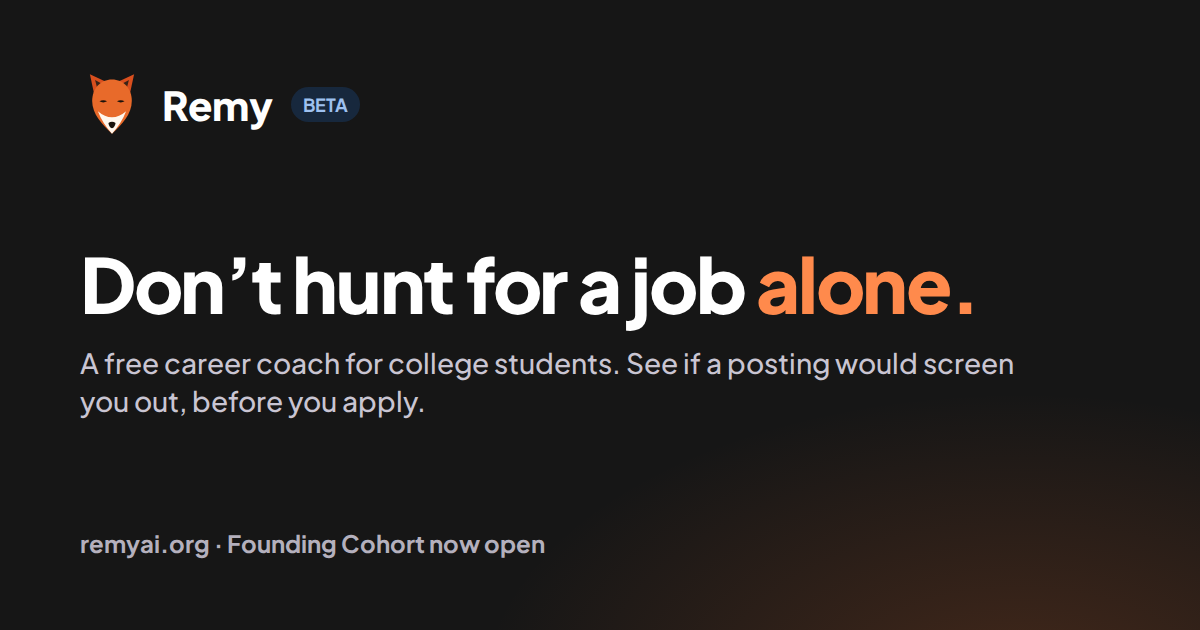
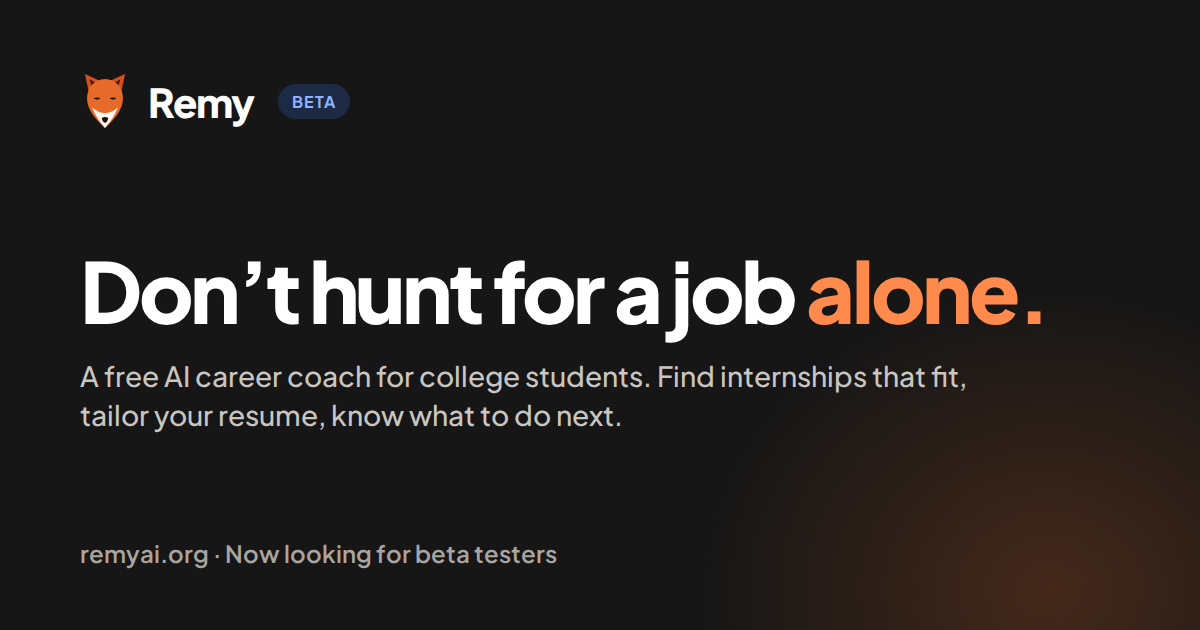
Say "beta testers" instead of "Founding Cohort" everywhere students look
Homepage buttons and fine print, sign-in badge/subtitle/messages, the
turned-away message, About and Privacy wording, the "You're in" welcome
email (subject, badge, no "built by TCU students" footer), and the link
preview (og:description + og.png). Owners' dashboard, code comments and
the beta terms text are unchanged (changing terms would make every
student re-agree). What's new entry added.

Claude-Session: https://claude.ai/code/session_0147vw1L5yEmaaesKTGWNT6C

Changed region(s): [[0.0617, 0.3921, 0.8633, 0.6937], [0.0617, 0.8444, 0.4625, 0.9048], [0.0617, 0.1206, 0.3083, 0.2111]]

diff --git a/client/src/pages/Welcome.tsx b/client/src/pages/Welcome.tsx
@@ -43,8 +43,8 @@ export default function Welcome() {
   return path === "/signin" || betaBlocked ? <SignIn /> : <Landing />;
 }
 
-/** Where to apply for the Founding Cohort: the team's form, or Remy's inbox when the form isn't set yet. */
-const applyHref = (formUrl?: string) => formUrl || "mailto:remy.careercoach@gmail.com?subject=Remy%20Founding%20Cohort";
+/** Where to apply to be a beta tester: the team's form, or Remy's inbox when the form isn't set yet. */
+const applyHref = (formUrl?: string) => formUrl || "mailto:remy.careercoach@gmail.com?subject=Remy%20beta%20tester";
 
 /** Invite-only beta: who can sign in, and why someone was turned away. */
 function BetaNote({ onOther }: { onOther: () => void }) {
@@ -55,14 +55,14 @@ function BetaNote({ onOther }: { onOther: () => void }) {
     <div className="notice notice-warn stack-sm fade-up" role="alert" data-testid="beta-blocked">
       <span className="small">{betaBlocked}</span>
       <div className="row" style={{ gap: 8 }}>
-        <a className="btn btn-primary btn-sm" href={href} target="_blank" rel="noreferrer" data-testid="link-beta-apply">Apply for the Founding Cohort</a>
+        <a className="btn btn-primary btn-sm" href={href} target="_blank" rel="noreferrer" data-testid="link-beta-apply">Apply to be a beta tester</a>
         <button type="button" className="btn btn-ghost btn-sm" onClick={() => { clearBeta(); onOther(); go("/signin"); }} data-testid="button-beta-other">Use a different email</button>
       </div>
     </div>
   );
   return (
     <p className="small muted" style={{ textAlign: "center" }} data-testid="beta-note">
-      Remy is invite-only during the beta. Sign in with the email you applied with. Not in yet? <a className="auth-link" href={href} target="_blank" rel="noreferrer">Apply for the Founding Cohort</a>
+      Remy is invite-only during the beta. Sign in with the email you applied with. Not in yet? <a className="auth-link" href={href} target="_blank" rel="noreferrer">Apply to be a beta tester</a>
     </p>
   );
 }
@@ -121,7 +121,7 @@ function SignIn() {
     <div className="landing-screen auth-stage">
       <div className="lp-beam" aria-hidden><span className="lp-beam-floor" /></div>
       <aside className="auth-side" aria-label="What happens next">
-        <span className="lp-award">{config?.beta?.on ? "Founding Cohort · invite-only beta" : "Free while Remy is in beta"}</span>
+        <span className="lp-award">{config?.beta?.on ? "Invite-only beta · looking for testers" : "Free while Remy is in beta"}</span>
         <p className="auth-side-h" aria-hidden>Your career coach is one step away.</p>
         <ol className="auth-steps">
           <li><b>Sign in</b><span>{config?.beta?.on ? "With the email you applied with." : "New here? This creates your account."}</span></li>
@@ -134,7 +134,7 @@ function SignIn() {
         <div className="landing">
           <Remy size={72} mood="wave" />
           <h1 className="motto">Sign in to Remy</h1>
-          <p className="sub">{config?.beta?.on ? "Free for Founding Cohort members during the beta. Setup takes about 5 minutes." : "Free for students while Remy is in beta. New here? Signing in creates your account; setup takes about 5 minutes."}</p>
+          <p className="sub">{config?.beta?.on ? "Free for beta testers. Setup takes about 5 minutes." : "Free for students while Remy is in beta. New here? Signing in creates your account; setup takes about 5 minutes."}</p>
         </div>
         <BetaNote onOther={() => { setSent(""); setEmail(""); setCode(""); }} />
         <div className="sso-list">
@@ -157,7 +157,7 @@ function SignIn() {
             sent && codes ? (
               <form className="stack-sm fade-up" onSubmit={(e) => { e.preventDefault(); verify(); }} data-testid="email-code-form">
                 <span className="small">{config?.beta?.on
-                  ? <>If <strong>{sent}</strong> is in Remy's Founding Cohort, a 6-digit code is on its way (it expires in 10 minutes). Nothing after a few minutes? Check spam, then make sure it's the email you applied with, or <a className="auth-link" href={applyHref(config.beta.formUrl)} target="_blank" rel="noreferrer">apply here</a>.</>
+                  ? <>If <strong>{sent}</strong> is on Remy's beta tester list, a 6-digit code is on its way (it expires in 10 minutes). Nothing after a few minutes? Check spam, then make sure it's the email you applied with, or <a className="auth-link" href={applyHref(config.beta.formUrl)} target="_blank" rel="noreferrer">apply here</a>.</>
                   : <>We emailed a 6-digit code to <strong>{sent}</strong>. It works on any device and expires in 10 minutes. Not there? Check spam or Promotions.</>}</span>
                 <div className="row">
                   <input className="input" style={{ flex: 1, minWidth: 140, letterSpacing: 4 }} inputMode="numeric" autoComplete="one-time-code" maxLength={6} autoFocus value={code} onChange={(e) => setCode(e.target.value.replace(/\D/g, ""))} placeholder="123456" aria-label="6-digit code" data-testid="input-email-code" />
@@ -191,7 +191,7 @@ function Landing() {
   const inside = !!(me && ws?.started);
   const beta = !!config?.beta?.on && !inside;
   const start = inside ? "/" : beta ? applyHref(config?.beta?.formUrl) : "/signin";
-  const startLabel = inside ? "Open my Remy" : beta ? "Apply for the Founding Cohort" : "Create your free account";
+  const startLabel = inside ? "Open my Remy" : beta ? "Apply to be a beta tester" : "Create your free account";
   const tour = useRef<HTMLElement>(null);
   const page = useRef<HTMLDivElement>(null);
   const [scrolled, setScrolled] = useState(false);
@@ -236,7 +236,7 @@ function Landing() {
             <a className="btn btn-lg lp-glow-btn" href={start} {...(beta ? { target: "_blank", rel: "noreferrer" } : {})} data-testid="button-lp-start">{startLabel}</a>
             <button className="btn btn-lg lp-ghost-btn" onClick={toTour}>See what you get</button>
           </div>
-          <p className="xs lp-fine">{beta ? "Invite-only beta · small cohorts, and the founders talk to every member · already accepted? Sign in above" : "Free beta · every major and every year, freshmen included"}</p>
+          <p className="xs lp-fine">{beta ? "Invite-only beta · the founders read every tester's feedback · already accepted? Sign in above" : "Free beta · every major and every year, freshmen included"}</p>
         </div>
         <HeroExample />
       </section>
@@ -323,7 +323,7 @@ function Landing() {
         <div className="lp-cta-in rv">
         <Remy size={56} mood="wave" />
         <h2>Ready when you are.</h2>
-        <p>{beta ? "Remy is invite-only while it's in beta: apply, and the team takes a small group each cohort. Free, no credit card." : "Free while Remy is in beta. No credit card. About 5 minutes to set up."}</p>
+        <p>{beta ? "Remy is invite-only while it's in beta: apply to be a tester and the team lets people in a group at a time. Free, no credit card." : "Free while Remy is in beta. No credit card. About 5 minutes to set up."}</p>
         <a className="btn btn-primary btn-lg" href={start} {...(beta ? { target: "_blank", rel: "noreferrer" } : {})}>{startLabel}</a>
         </div>
       </section>

diff --git a/client/src/pages/Info.tsx b/client/src/pages/Info.tsx
@@ -39,7 +39,7 @@ const TEAM: { name: string; role: string; photo: string }[] = [
 
 export function About() {
   return (
-    <Page title="About Remy" lead="Remy is a career coach for college students: it finds real openings that fit you and helps you apply honestly. During the beta it's invite-only: apply for the Founding Cohort on the homepage.">
+    <Page title="About Remy" lead="Remy is a career coach for college students: it finds real openings that fit you and helps you apply honestly. During the beta it's invite-only: apply to be a beta tester on the homepage.">
       <Section title="Why we built it">
         <p>Most students, freshmen especially, don't know where to start: what to put on a resume, which openings fit, or who to talk to. Remy walks you through it, from your first resume to your first offer.</p>
       </Section>
@@ -87,7 +87,7 @@ export function Policies() {
           <li><b>From signing in:</b> your name, email address and profile photo.</li>
           <li><b>What you give Remy:</b> your resume (the file and its text), a LinkedIn profile PDF if you upload one, your answers in setup and the resume builder, your preferences, saved openings, applications, tracker, calendar items, contacts you add, email drafts and chat messages.</li>
           <li><b>Your school email</b>, if you verify it (for example name@tcu.edu), so Remy knows you're a student there.</li>
-          <li><b>Your Founding Cohort application</b>, if you apply with our Google Form: your name, school, the email you'll sign in with, major, class year, what you're looking for, where you're stuck, the tools you use, whether you'll give weekly feedback and how you heard about Remy. The team uses it to choose each cohort. Google Forms' own privacy policy applies to the form itself.</li>
+          <li><b>Your beta tester application</b>, if you apply with our Google Form: your name, school, the email you'll sign in with, major, class year, what you're looking for, where you're stuck, the tools you use, whether you'll give weekly feedback and how you heard about Remy. The team uses it to choose who joins the beta. Google Forms' own privacy policy applies to the form itself.</li>
           <li><b>Your ratings and feedback:</b> “More like this” / “Not for me” on openings, one-tap 👍 / 👎, anything you send with Send feedback, and your answers to Remy's occasional questions and weekly check-in (Remy's AI may ask one follow-up; only the question and your answer are sent to it).</li>
           <li><b>Automatic problem reports:</b> when something breaks for you (a page error, or a request that fails or is very slow), your browser tells Remy which page and what failed, linked to your account so we can fix it. Remy also counts which pages are opened and when a button is clicked over and over (a sign it's broken), without your name. Remy never records your screen or what you type.</li>
           <li><b>A sign-in cookie</b> that keeps you signed in. Remy uses your network address briefly to stop abuse (like too many requests at once) and doesn't store it.</li>
@@ -104,14 +104,14 @@ export function Policies() {
       <Section title="How your information is used">
         <p>Only to run Remy for you: building your profile, finding openings that fit, tailoring applications, drafting emails, and planning your next steps.</p>
         <p>Some of this uses AI. When it does, Remy sends only the text that task needs (for example, your resume and a job posting) to an AI provider (currently Google's Gemini models, through OpenRouter), and those providers' own privacy policies apply. Remy checks what the AI writes against your own words before showing it to you.</p>
-        <p>Remy emails you 6-digit sign-in codes and, unless you turn them off in Account → Appearance & alerts, deadline reminders and a weekly digest, from remy.careercoach@gmail.com. If you're accepted into the Founding Cohort, the team sends you a welcome email with how to sign in.</p>
+        <p>Remy emails you 6-digit sign-in codes and, unless you turn them off in Account → Appearance & alerts, deadline reminders and a weekly digest, from remy.careercoach@gmail.com. If you're accepted as a beta tester, the team sends you a welcome email with how to sign in.</p>
         <p>The team's dashboard shows counts across students (for example, how many applications got an answer, or how many students opened a page), never what you wrote. We may keep combined statistics that can't identify anyone to improve Remy.</p>
       </Section>
       <Section title="Where it's stored">
         <p>Your information is stored in a Supabase database and served from Render, both in the United States. Sign-in is handled by Supabase (with Google or LinkedIn), Google, or Remy's own emailed 6-digit code. Public job postings Remy finds are kept in one shared list with no student information. If you connect Google Calendar, Remy keeps an encrypted Google access key so it can update and delete its “Remy” calendar; disconnecting deletes the calendar and the key.</p>
       </Section>
       <Section title="Deleting your information">
-        <p>Go to <b>Account → Account & data → Delete everything</b>. Your resume, files, profile, applications, calendar, contacts, chat, ratings, feedback and problem reports, verified school email, Founding Cohort application, sign-in record and account are deleted immediately, the “Remy” calendar is deleted from your Google Calendar if you connected it, and you're signed out. Remy keeps nothing that identifies you. Combined statistics, if any, can't be traced back to you.</p>
+        <p>Go to <b>Account → Account & data → Delete everything</b>. Your resume, files, profile, applications, calendar, contacts, chat, ratings, feedback and problem reports, verified school email, beta tester application, sign-in record and account are deleted immediately, the “Remy” calendar is deleted from your Google Calendar if you connected it, and you're signed out. Remy keeps nothing that identifies you. Combined statistics, if any, can't be traced back to you.</p>
         <p>You can also <b>download all your data</b> from the same page at any time. Guest (demo) accounts are deleted automatically after 30 days without use. Applications the team declines are deleted after their cohort closes. Copies in our hosting providers' routine backups expire on their own schedule.</p>
       </Section>
 

diff --git a/shared/acceptEmail.ts b/shared/acceptEmail.ts
@@ -1,13 +1,13 @@
-// The "You're in" email an owner sends when accepting a Founding Cohort applicant (Admin → Beta list → Accept).
+// The "You're in" email an owner sends when accepting a beta tester applicant (Admin → Beta list → Accept).
 // The owner sees this draft, can edit it, and sees the same HTML preview the student gets.
 
 export function acceptDraft(o: { name: string; email: string; cohort: string }) {
   const first = (o.name || "").trim().split(/\s+/)[0] || "there";
   return {
-    subject: "You're in: welcome to Remy's Founding Cohort 🦊",
+    subject: "You're in: welcome to the Remy beta 🦊",
     message: [
       `Hi ${first},`,
-      `You're one of the first students in Remy's Founding Cohort${o.cohort ? ` (${o.cohort})` : ""}. Here's how to get in:`,
+      `You're one of Remy's first beta testers${o.cohort ? ` (${o.cohort})` : ""}. Here's how to get in:`,
       `1. Go to remyai.org and click Sign in.\n2. Click "Continue with Email" and type ${o.email}. It has to be this exact address: it's the one we let in.\n3. Type the 6-digit code Remy emails you (check spam or Promotions if you don't see it).\n4. Setup takes about 5 minutes: add your resume and tell Remy what you're working toward.`,
       `What we ask in return: use Remy about once a week, answer one 2-minute check-in each week, and tell us anything that's confusing or wrong. Just reply to this email.`,
       `Thanks for helping build this,\nThe Remy team`,
@@ -26,7 +26,7 @@ export function acceptHtml(message: string, host: string) {
 <table role="presentation" width="100%" cellpadding="0" cellspacing="0" style="max-width:560px;background:#ffffff;border-radius:16px;overflow:hidden;font-family:-apple-system,Segoe UI,Helvetica,Arial,sans-serif">
 <tr><td style="background:#0e0d12;padding:26px 28px">
 <span style="font-size:24px;font-weight:800;color:#ffffff;letter-spacing:-.3px">🦊 Remy</span>
-<span style="display:inline-block;margin-left:8px;padding:3px 9px;border-radius:999px;background:#e86a2a;color:#fff;font-size:11px;font-weight:700;vertical-align:middle">FOUNDING COHORT</span>
+<span style="display:inline-block;margin-left:8px;padding:3px 9px;border-radius:999px;background:#e86a2a;color:#fff;font-size:11px;font-weight:700;vertical-align:middle">BETA TESTER</span>
 <div style="margin-top:14px;font-size:22px;font-weight:700;color:#ffffff">You&rsquo;re in.</div>
 <div style="margin-top:4px;font-size:14px;color:#c9c3cf">Don&rsquo;t hunt for a job alone.</div>
 </td></tr>
@@ -36,6 +36,6 @@ export function acceptHtml(message: string, host: string) {
 </td></tr></table>
 <p style="margin:10px 0 0;font-size:12px;color:#8a837d">Or open ${esc(signin)}</p>
 </td></tr>
-<tr><td style="padding:18px 28px;border-top:1px solid #eee;font-size:12px;color:#8a837d">Remy · built by TCU students · <a href="mailto:remy.careercoach@gmail.com" style="color:#8a837d">remy.careercoach@gmail.com</a></td></tr>
+<tr><td style="padding:18px 28px;border-top:1px solid #eee;font-size:12px;color:#8a837d">Remy · <a href="mailto:remy.careercoach@gmail.com" style="color:#8a837d">remy.careercoach@gmail.com</a></td></tr>
 </table></td></tr></table></body></html>`;
 }

diff --git a/client/index.html b/client/index.html
@@ -1,2 +1,2 @@
 <!doctype html>
-<html lang="en"><head><meta charset="UTF-8"/><meta name="viewport" content="width=device-width,initial-scale=1.0"/><meta name="theme-color" content="#161616"/><meta name="description" content="Remy is a free career coach for college students: see if a posting would screen you out before you apply, build a resume only from what's true, and learn what your major needs and when."/><meta property="og:type" content="website"/><meta property="og:site_name" content="Remy"/><meta property="og:url" content="https://remyai.org/"/><meta property="og:title" content="Remy · Don't hunt for a job alone"/><meta property="og:description" content="A free career coach for college students. Founding Cohort now open."/><meta property="og:image" content="https://remyai.org/og.png"/><meta property="og:image:width" content="1200"/><meta property="og:image:height" content="630"/><meta name="twitter:card" content="summary_large_image"/><title>Remy · Don't hunt for a job alone</title><script src="/theme.js"></script><link rel="manifest" href="/manifest.webmanifest"/><link rel="icon" type="image/svg+xml" href="/favicon.svg"/><link rel="icon" type="image/png" sizes="48x48" href="/favicon.png"/><link rel="apple-touch-icon" href="/apple-touch-icon.png"/><link rel="preconnect" href="https://fonts.googleapis.com"/><link rel="preconnect" href="https://fonts.gstatic.com" crossorigin/></head><body><div id="root"></div><script type="module" src="/src/main.tsx"></script></body></html>
+<html lang="en"><head><meta charset="UTF-8"/><meta name="viewport" content="width=device-width,initial-scale=1.0"/><meta name="theme-color" content="#161616"/><meta name="description" content="Remy is a free career coach for college students: see if a posting would screen you out before you apply, build a resume only from what's true, and learn what your major needs and when."/><meta property="og:type" content="website"/><meta property="og:site_name" content="Remy"/><meta property="og:url" content="https://remyai.org/"/><meta property="og:title" content="Remy · Don't hunt for a job alone"/><meta property="og:description" content="A free AI career coach for college students. Now looking for beta testers."/><meta property="og:image" content="https://remyai.org/og.png"/><meta property="og:image:width" content="1200"/><meta property="og:image:height" content="630"/><meta name="twitter:card" content="summary_large_image"/><title>Remy · Don't hunt for a job alone</title><script src="/theme.js"></script><link rel="manifest" href="/manifest.webmanifest"/><link rel="icon" type="image/svg+xml" href="/favicon.svg"/><link rel="icon" type="image/png" sizes="48x48" href="/favicon.png"/><link rel="apple-touch-icon" href="/apple-touch-icon.png"/><link rel="preconnect" href="https://fonts.googleapis.com"/><link rel="preconnect" href="https://fonts.gstatic.com" crossorigin/></head><body><div id="root"></div><script type="module" src="/src/main.tsx"></script></body></html>

diff --git a/shared/news.ts b/shared/news.ts
@@ -3,6 +3,7 @@
 export type NewsItem = { id: string; date: string; kind: "New" | "Improved" | "Fixed" | "Changed"; title: string; body: string; owners?: boolean };
 
 export const NEWS: NewsItem[] = [
+  { id: "2026-11-09-01", date: "2026-11-09", kind: "Changed", title: "Beta testers, not a “cohort”", body: "The homepage, sign-in, About and Privacy pages and the welcome email now say “beta testers” instead of “Founding Cohort”: apply to be a beta tester, and the team lets people in a group at a time. Nothing else changes: the same form, the same email to sign in with, and your work stays as it is." },
   { id: "2026-11-08-05", date: "2026-11-08", kind: "Improved", title: "The important parts, where you look", body: "Checks (suggestions and what an application system reads from your file) now sit right under your resume file instead of at the very bottom. Openings show your best 10 first, then 10 more at a time. If you haven't picked roles yet or told Remy you're not sure, My Path starts with \"Not sure? Start here\". The approve bar on a tailored draft stays on screen until you approve, and Remy's quick questions appear right after the moment they're about, at the top." },
   { id: "2026-11-08-04", date: "2026-11-08", kind: "New", title: "Tell us what to fix, in a minute", body: "Now and then Remy asks one quick question right after something happens (you confirm your resume, approve a tailored version, or after your first week), and once a week a short check-in on Home asks three questions. Remy's AI may ask one follow-up for an example. The founders read every answer; skip any of it anytime. Your answers are deleted if you delete your account." },
   { id: "2026-11-08-03", date: "2026-11-08", kind: "New", title: "See your edits before you save them", body: "When you edit your base resume and press Save, Remy now shows every change first: what you added, removed or reworded, with the old line crossed out above the new one. Save them or keep editing. (A teammate's idea.)" },

diff --git a/server/beta.ts b/server/beta.ts
@@ -43,7 +43,7 @@ export async function meAllowed(me: Pick<Me, "kind" | "email">) {
 
 export function betaError(email = "") {
   const who = normEmail(email);
-  return Object.assign(new Error(`${who ? who + " isn't" : "You're not"} in Remy's Founding Cohort yet. Remy is invite-only during the beta: apply with the form, then sign in with this same email once you're accepted.`), { status: 403, code: "beta" });
+  return Object.assign(new Error(`${who ? who + " isn't" : "You're not"} on Remy's beta tester list yet. Remy is invite-only during the beta: apply with the form, then sign in with this same email once you're accepted.`), { status: 403, code: "beta" });
 }
 
 // ---------- owners' list ----------
@@ -80,8 +80,8 @@ export async function markInvited(email: string) {
 
 export function welcomeEmail(host: string) {
   return {
-    subject: "You're in: welcome to Remy's Founding Cohort",
-    text: `You're in Remy's Founding Cohort.\n\nSign in at https://${host}/signin with exactly this email address: "Continue with Email" sends you a 6-digit code, or use Google if this is your Google account's address. Setup takes about 5 minutes.\n\nAs a founding member, you've agreed to use Remy about once a week and answer one short check-in. Tell us anything Remy gets wrong: that's how it gets better.\n\nThe Remy team\nremy.careercoach@gmail.com`,
+    subject: "You're in: welcome to the Remy beta",
+    text: `You're in: you're one of Remy's beta testers.\n\nSign in at https://${host}/signin with exactly this email address: "Continue with Email" sends you a 6-digit code, or use Google if this is your Google account's address. Setup takes about 5 minutes.\n\nAs a founding member, you've agreed to use Remy about once a week and answer one short check-in. Tell us anything Remy gets wrong: that's how it gets better.\n\nThe Remy team\nremy.careercoach@gmail.com`,
   };
 }
 

diff --git a/server/routes.ts b/server/routes.ts
@@ -125,7 +125,7 @@ function route(fn: H, opts: { create?: boolean; serial?: boolean } = {}): (req: 
       if (me && !(await beta.meAllowed(me))) return res.status(403).json({ message: beta.betaError(me.email).message, code: "beta" });
       if (!me) {
         if (!opts.create) return res.status(401).json({ message: "Please sign in to continue." });
-        if (beta.betaOn()) return res.status(403).json({ message: "Remy is invite-only during the beta. Apply for the Founding Cohort, then sign in with the email you applied with.", code: "beta" });
+        if (beta.betaOn()) return res.status(403).json({ message: "Remy is invite-only during the beta. Apply to be a beta tester, then sign in with the email you applied with.", code: "beta" });
         if (!allow("guest:" + ip, 10, 60 * 60_000)) return res.status(429).json({ message: "Too many new guest workspaces from this network. Please try again in an hour, or sign in." });
         me = await newGuest(res);
       }
@@ -669,7 +669,7 @@ export async function registerRoutes(_server: Server, app: Express) {
       if (!emailReady()) emailError = "Email isn't set up on this server, so nothing was sent.";
       else {
         const host = process.env.PUBLIC_HOST || "remyai.org";
-        const subject = String(req.body?.subject || "").replace(/[\r\n]+/g, " ").trim().slice(0, 150) || "You're in: welcome to Remy's Founding Cohort";
+        const subject = String(req.body?.subject || "").replace(/[\r\n]+/g, " ").trim().slice(0, 150) || "You're in: welcome to the Remy beta";
         const message = String(req.body?.message || "").slice(0, 5000).trim();
         if (!message) bad("Write the email first.");
         try { await sendEmail(email, subject, `${message}\n\nSign in: https://${host}/signin`, acceptHtml(message, host)); await beta.markInvited(email); invited = true; }

diff --git a/client/src/lib/store.tsx b/client/src/lib/store.tsx
@@ -152,7 +152,7 @@ export function StoreProvider({ children }: { children: ReactNode }) {
       toast(e?.message || "Sign-in didn't finish.", true);
     }
     const m = await api<{ me: Me | null; workspace: Workspace | null; beta?: { blocked: boolean; email: string } }>("GET", "/api/me");
-    if (m.beta?.blocked) setBetaBlocked(`${m.beta.email || "This account"} isn't in Remy's Founding Cohort yet. Remy is invite-only during the beta: apply with the form, then sign in with this same email once you're accepted.`);
+    if (m.beta?.blocked) setBetaBlocked(`${m.beta.email || "This account"} isn't on Remy's beta tester list yet. Remy is invite-only during the beta: apply with the form, then sign in with this same email once you're accepted.`);
     setMe(m.me);
     setWsState(m.workspace);
   }, [toast]);
